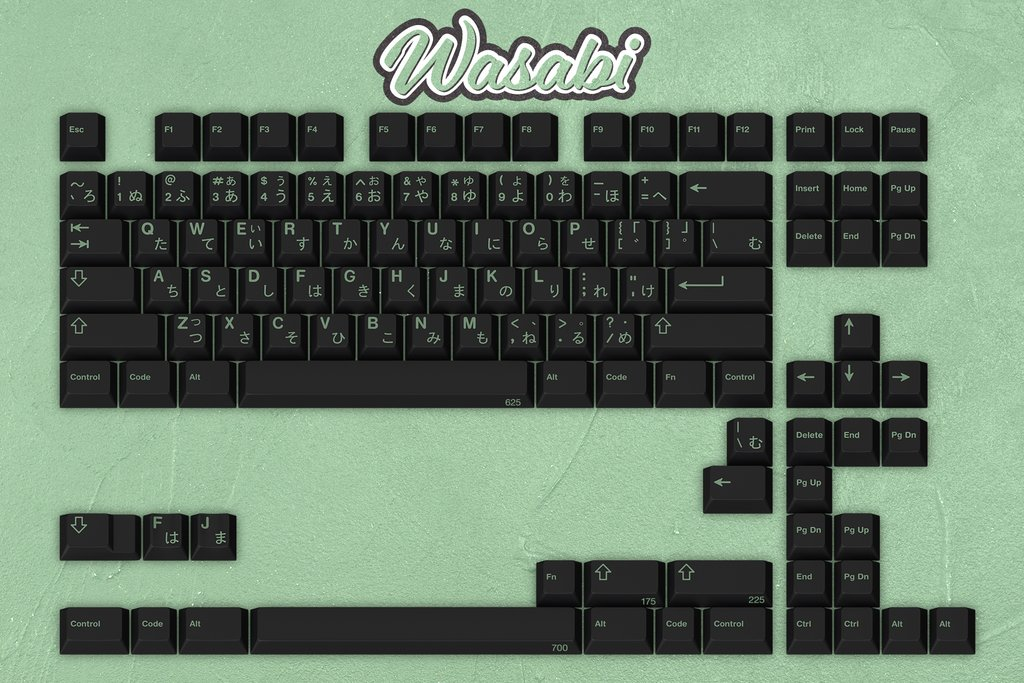
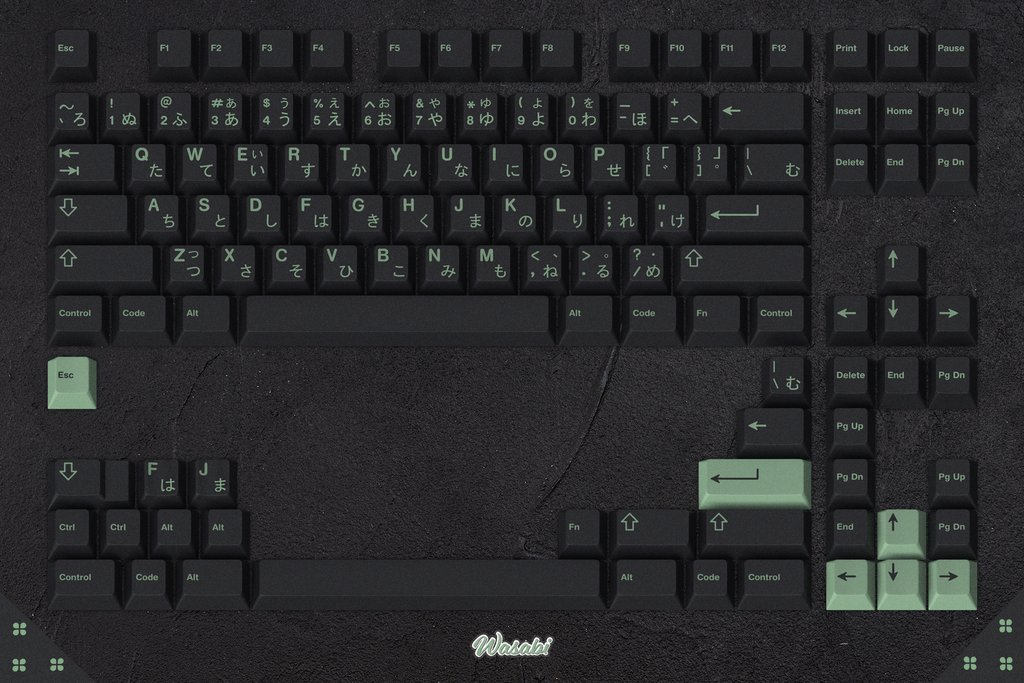
There are 4 files have been modified at 2019-10-13 06:06:47 . 	-rw-r--r-- 1 jzou ops 148641 Oct 13 06:00 assets/images/gmk-keycaps/wasabi/kits_pics/base.jpg 	-rw-r--r-- 1 jzou ops 1058 Oct 13 06:06 docs/gmk-keycaps/Wasabi.md 	-rw-r--r-- 1 jzou ops 215 Oct 13 06:01 rawdata/gmk/wasabi 	-rwxr-xr-x 1 jz

diff --git a/script/generate_md_v1.py b/script/generate_md_v1.py
@@ -92,7 +92,13 @@ class GenerateKeyCapPage(object):
         exchange_rate_api_key = "access_key=" + f_api_file.read().strip()
         f_api_file.close()
         
-        date = "date=%s" % self.info_dict['time']
+        if len(self.info_dict['time'].split('-')) == 3:
+            date = "date=%s" % self.info_dict['time']
+        elif len(self.info_dict['time'].split('-')) == 2:
+            date = "date=%s-01" % self.info_dict['time']
+        else:
+            print "Something wrong with GB Time!"
+            sys.exit(1)
 
         if self.info_dict['currencyunit'] == 'USD':
             currency_checked = "currencies=%s,CNY" % self.info_dict['currencyunit']

diff --git a/docs/gmk-keycaps/Wasabi.md b/docs/gmk-keycaps/Wasabi.md
@@ -8,37 +8,38 @@ nav_order: 310770
 
 # Wasabi 芥末
 
-ref link: [Wasabi OCO GB Link](https://www.originativeco.com/products/wasabi)
+ref link: [Wasabi OCO GB Link](https://www.originativeco.com/products/wasabi)  
 
-* [Price](#price)
-* [Kits](#kits)
-* [Info](#info)
-* [Pictures](#pictures)
+* [Price](#price)  
+* [Kits](#kits)  
+* [Info](#info)  
+* [Pictures](#pictures)  
 
 
-## Price
-NOTE: USD to RMB exchange rate is 7.17
+## Price  
+NOTE: USD to CNY exchange rate is 7.16
 
-| Name          | Price(OCO)    |  Price(RMB) | Quantity |
+| Name          | Price(OCO)    |  Price(CNY) | Quantity |
 | ------------- | ------------ |  ---------- | -------- |
-|[Base](#base)|160.00|1147.20|unknown|
+|[Base](#base)|109.00|780.44|Unkonwn|
 
 
-## Kits
-### Base
-**Price(OCO):** 160.00    **Price(RMB):** 1147.20    **Quantity:** unknown
-<img src="{{ 'assets/images/gmk-keycaps/wasabi/kits_pics/base.jpg' | relative_url }}" alt="Base" class="image featured">
+## Kits  
+### Base  
+**Price(OCO):** 109.00    **Price(CNY):** 780.44    **Quantity:** Unkonwn  
+<img src="{{ 'assets/images/gmk-keycaps/wasabi/kits_pics/base.jpg' | relative_url }}" alt="base" class="image featured">
 
 
-## Info
-* Designer: 
-* Profile: GMK 1-1-2-3-4-4
-* GB Time: 2019-09
-* ColorCodes: 
+## Info  
+* Designer:   
+* Profile: GMK 1-1-2-3-4-4  
+* GB Time: 2019-09  
+* Color Codes:  
 
-| Base Color     | Legend Color
-| :-------------: | :------------:
-|CR|3A
+| | Base Color    | Legend Color
+| :-------------: | :-------------: | :------------:
+|Base|CR|3A
+|Accent|3A|CR
 
-## Pictures
-<img src="{{ 'assets/images/gmk-keycaps/wasabi/rendering_pics/1.jpg' | relative_url }}" alt="1" class="image featured">
+## Pictures  
+<img src="{{ 'assets/images/gmk-keycaps/wasabi/rendering_pics/1.jpg' | relative_url }}" alt="1.jpg" class="image featured">
